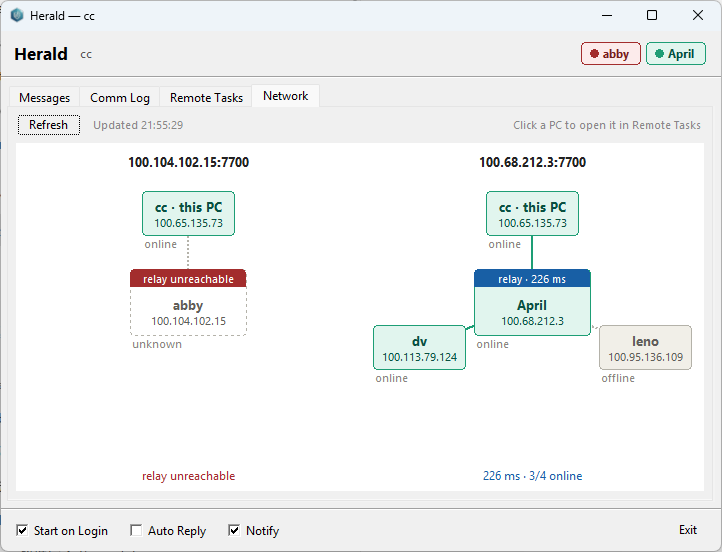
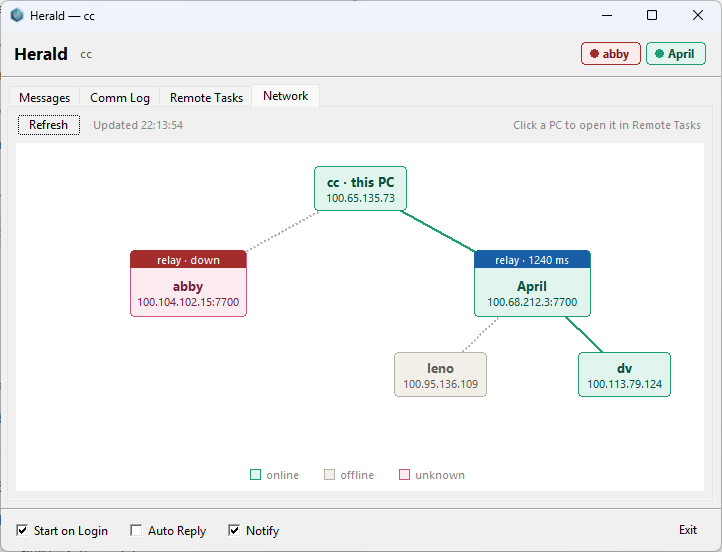
feat(tray): Network tab as one graph, this PC linked to every relay
This PC is drawn once, at the top, with a line to each relay; relay cards show IP:port and a status band. Per-card state labels and the status lines are replaced by colour (unknown is now pink) and a legend.

diff --git a/herald_tray.py b/herald_tray.py
@@ -121,17 +121,9 @@ def relay_host(net: dict, probe: dict, ips: dict) -> str | None:
 # Network tab palette: (fill, outline, text) per node state
 NODE = {"online": ("#E1F5EE", "#1D9E75", "#085041"),
         "offline": ("#F1EFE8", "#B4B2A9", "#5F5E5A"),
-        "unknown": ("#FFFFFF", "#B4B2A9", "#5F5E5A")}
+        "unknown": ("#FBEAF0", "#D4537E", "#72243E")}
 PILL_UP, PILL_DOWN = NODE["online"], ("#FCEBEB", "#A32D2D", "#791F1F")
-INK, MUTED, RELAY, DOWN ="#222222", "#888780", "#185FA5", "#A32D2D"
-
-
-def split_members(net: dict, host_pc: str | None) -> tuple:
-    """(center, around): the relay host sits in the middle and is not drawn again in the ring."""
-    members = [net["name"]] + [p for p in net.get("peers", []) if p != net["name"]]
-    if not host_pc:
-        return None, members
-    return host_pc, [p for p in members if p != host_pc]
+MUTED, RELAY, DOWN = "#888780", "#185FA5", "#A32D2D"
 
 
 def round_rect(c, x0, y0, x1, y1, r, **kw):
@@ -536,52 +528,62 @@ class HeraldWindow:
         w, h = c.winfo_width(), c.winfo_height()
         if not self._net_probes or w < 50:
             return
+        # one graph: this PC once at the top, a line to each relay it uses, each relay's other PCs hanging below it
         col = w / len(self._net_probes)
-        # an oval ring: wider than tall, so side nodes clear the relay host in the center
-        rx, ry = max(100, min(col * 0.38, 220)), max(60, (h - 170) / 2)
+        me = self.cfg.get("name", "")
+        mx, my = w / 2, 45
+        ry = my + 95                       # relay row
+        rx, dy = min(col * 0.38, 200), max(90, h - ry - 80)
         # my_ip() is already cached: the probe thread asked it before any result could reach here
-        ips = {**self.cfg.get("ips", {}), self.cfg.get("name", ""): my_ip()}
+        ips = {**self.cfg.get("ips", {}), me: my_ip()}
         self._me_up = any(p["up"] for _, p in self._net_probes)
 
+        def link(x0, y0, x1, y1, online):
+            c.create_line(x0, y0, x1, y1, fill=NODE["online"][1] if online else NODE["offline"][1],
+                          dash=() if online else (4, 4), width=2 if online else 1.5)
+
+        layout, me_band = [], None
         for i, (net, probe) in enumerate(self._net_probes):
-            cx, cy = col * i + col / 2, 70 + ry
-            c.create_text(cx, 18, text=net["server_url"].split("//")[-1], fill=INK, font=("Segoe UI", 10, "bold"))
-            host_pc = relay_host(net, probe, ips)
-            center, around = split_members(net, host_pc)
-            relay_col = RELAY if probe["up"] else DOWN
-
-            for j, peer in enumerate(around):
-                a = 2 * math.pi * j / len(around) - math.pi / 2
-                x, y = cx + rx * math.cos(a), cy + ry * math.sin(a)
-                # a dead relay carries nothing, so every link to it is grey even when the PC itself is up
-                online = probe["up"] and node_state(peer, probe, net["name"], self._me_up) == "online"
-                c.create_line(cx, cy, x, y, fill=NODE["online"][1] if online else NODE["offline"][1],
-                              dash=() if online else (4, 4), width=2 if online else 1.5)
-            for j, peer in enumerate(around):
-                a = 2 * math.pi * j / len(around) - math.pi / 2
-                self._draw_node(c, cx + rx * math.cos(a), cy + ry * math.sin(a), peer, net, probe,
-                                ips.get(peer, ""), f"peer-{i}-{j}")
-
-            if center:
-                # the relay is a program on this PC: the PC sits in the middle, the relay is a band on its card
-                band = f"relay · {probe['ms']} ms" if probe["up"] else "relay unreachable"
-                self._draw_node(c, cx, cy, center, net, probe, ips.get(center, ""), f"host-{i}",
-                                band=(band, relay_col))
-            else:   # host unknown: say only that a relay is there
-                c.create_rectangle(cx - 40, cy - 16, cx + 40, cy + 16, fill="#ffffff", outline=relay_col,
-                                   width=2, dash=() if probe["up"] else (4, 3))
-                c.create_text(cx, cy, text="relay", fill=relay_col, font=("Segoe UI", 9, "bold"))
-
-            everyone = ([center] if center else []) + around
-            if not probe["up"]:
-                status = "relay unreachable"
-            elif probe["online"] is None:
-                status = f"{probe['ms']} ms · old relay, no peer list"
+            host = relay_host(net, probe, ips)
+            band = (f"relay · {probe['ms']} ms" if probe["up"] else "relay · down",
+                    RELAY if probe["up"] else DOWN)
+            # the relay is a program on a PC: that PC carries the band, so a relay on this PC sits on my card
+            rx0, ry0 = (mx, my) if host == me else (col * i + col / 2, ry)
+            if host == me:
+                me_band = band
             else:
-                up = sum(node_state(p, probe, net["name"], self._me_up) == "online" for p in everyone)
-                status = f"{probe['ms']} ms · {up}/{len(everyone)} online"
-            c.create_text(cx, h - 16, text=status, fill=relay_col, font=("Segoe UI", 9))
+                link(mx, my, rx0, ry0, probe["up"])
+            others = [p for p in net.get("peers", []) if p not in (me, host)]
+            spots = []
+            for j, peer in enumerate(others):
+                # spread on a downward arc, left to right
+                a = math.pi / 2 if len(others) == 1 else math.pi * (0.75 - 0.5 * j / (len(others) - 1))
+                x, y = rx0 + rx * math.cos(a), ry0 + dy * math.sin(a)
+                # a dead relay carries nothing, so every link to it is grey even when the PC itself is up
+                link(rx0, ry0, x, y, probe["up"] and node_state(peer, probe) == "online")
+                spots.append((peer, x, y))
+            layout.append((net, probe, host, band, rx0, ry0, spots))
 
+        for i, (net, probe, host, band, rx0, ry0, spots) in enumerate(layout):
+            for j, (peer, x, y) in enumerate(spots):
+                self._draw_node(c, x, y, peer, net, probe, ips.get(peer, ""), f"peer-{i}-{j}")
+            if host and host != me:   # the host's address is the relay's: show it as IP:port
+                self._draw_node(c, rx0, ry0, host, net, probe, net["server_url"].split("//")[-1].rstrip("/"),
+                                f"host-{i}", band=band)
+            elif not host:   # host unknown: say only that a relay is there
+                c.create_rectangle(rx0 - 58, ry0 - 16, rx0 + 58, ry0 + 16, fill="#ffffff", outline=band[1],
+                                   width=2, dash=() if probe["up"] else (4, 3))
+                c.create_text(rx0, ry0, text=band[0], fill=band[1], font=("Segoe UI", 8, "bold"))
+        net0, probe0 = self._net_probes[0]
+        me_addr = next((n["server_url"].split("//")[-1].rstrip("/") for n, _, h, *_ in layout if h == me), None)
+        self._draw_node(c, mx, my, me, net0, probe0, me_addr or ips.get(me, ""), "me", band=me_band)
+
+        x = w / 2 - 110   # legend: the card colours
+        for state in ("online", "offline", "unknown"):
+            fill, edge, _ = NODE[state]
+            c.create_rectangle(x, h - 22, x + 10, h - 12, fill=fill, outline=edge)
+            x = c.bbox(c.create_text(x + 16, h - 17, text=state, anchor="w", fill=MUTED,
+                                     font=("Segoe UI", 8)))[2] + 24
 
     def _draw_node(self, c, x, y, peer, net, probe, sub, tag, band=None):
         state = node_state(peer, probe, net["name"], self._me_up)
@@ -589,9 +591,7 @@ class HeraldWindow:
         me = peer == net["name"]
         x, y = round(x), round(y)   # see round_rect
         hw, hh = (58, 33) if band else (46, 22)
-        c.create_text(x - hw + 2, y + hh + 2, text=state, anchor="nw", fill=MUTED, font=("Segoe UI", 8))
-        round_rect(c, x - hw, y - hh, x + hw, y + hh, 9, tags=tag, fill=fill,
-                   outline=edge, dash=(4, 3) if state == "unknown" else ())
+        round_rect(c, x - hw, y - hh, x + hw, y + hh, 9, tags=tag, fill=fill, outline=edge)
         if band:
             # rounded top, square bottom: tk's smooth polygon keeps a corner sharp where a point is tripled
             x0, y0, x1, yb, r = x - hw, y - hh, x + hw, y - hh + 18, 9
@@ -824,7 +824,7 @@ class HeraldWindow:
         x = 2
         for i, (net, probe) in enumerate(probes):
             # the top-level pill follows the tray's own subscription: green there means commands can reach this PC
-            up = self._subscribed if i == 0 else probe["up"]
+            up = probe["up"] if i or self._subscribed is None else self._subscribed
             fill, edge, ink = (PILL_UP if up else PILL_DOWN) if up is not None else NODE["unknown"]
             host = net["server_url"].split("//")[-1]
             label = relay_host(net, probe, ips) or host.split(":")[0]

diff --git a/docs/system-tray-ui.md b/docs/system-tray-ui.md
@@ -12,30 +12,30 @@
 | **Messages** | Incoming messages and file deposits from peers, as they arrive over SSE. |
 | **Comm Log** | The full two-way log from `herald_comm.log`: every `exec_shell` and `ask_peer` sent or received. |
 | **Remote Tasks** | Run a preset (or typed) command on a peer and see its output, e.g. which `claude` / `python` processes are running there. Each peer is reached through the relay of the network it belongs to. |
-| **Network** | Which PCs are connected right now, one diagram per relay (see below). |
+| **Network** | Which PCs are connected right now, one graph of every relay (see below). |
 
 ## Network tab
 
 ![Network tab](img/network-tab.png)
 
-Each relay in `config.json` (the top level plus every entry under `networks`) gets its own diagram. The relay is a program running on one of the PCs, so that PC sits in the middle with a coloured **relay band** across the top of its card; the network's other PCs are placed around it. The host appears only once.
+One graph for all relays in `config.json` (the top level plus every entry under `networks`). This PC sits at the top, once, with a line to every relay it uses. A relay is a program running on one of the PCs, so that PC carries a coloured **relay band** across the top of its card and shows the relay address as `IP:port`, and the network's other PCs hang below it.
 
 | Mark | Meaning |
 |------|---------|
-| `online` under a green box, solid line | The PC's tray holds a live connection to this relay |
-| `offline` under a grey box, dashed line | No tray connected from that PC |
-| `unknown` under a white dashed box | The relay is unreachable, or runs an older `server.py` that does not report who is online |
+| Green box, solid line | Online: the PC's tray holds a live connection to this relay |
+| Grey box, dashed line | Offline: no tray connected from that PC |
+| Pink box | Unknown: the relay is unreachable, or runs an older `server.py` that does not report who is online |
 | `· this PC` after the name | This PC: online whenever any relay answers |
 | Blue band, `relay · N ms` | The relay is up, running on that PC |
-| Red band, `relay unreachable` | The relay cannot be reached; every line to it is grey |
+| Red band, `relay · down` | The relay cannot be reached; every line to it is grey |
 | Plain "relay" box in the middle | The relay's host PC could not be identified (see [Showing IP addresses](#showing-ip-addresses)) |
 
-Below each diagram: the round-trip time to the relay and how many of its peers are online.
+The legend under the graph repeats the three box colours.
 
 - **Click a PC** to jump to Remote Tasks with that peer selected.
 - The tab refreshes when you open it, then every 15 seconds while it stays open. Nothing is polled while the window is hidden.
 - Peers come from each network's `peers` list in `config.json`. A PC that is connected but missing from that list will not be drawn.
-- This PC's tray subscribes only to the **top-level** relay: peers in other networks cannot send commands to it, but it can still send to them. The diagram therefore shows it online in every network whose relay answers.
+- This PC's tray subscribes only to the **top-level** relay: peers in other networks cannot send commands to it, but it can still send to them. The graph therefore draws it online, with a solid line to every relay that answers.
 
 ### Relay pills in the title bar
 
